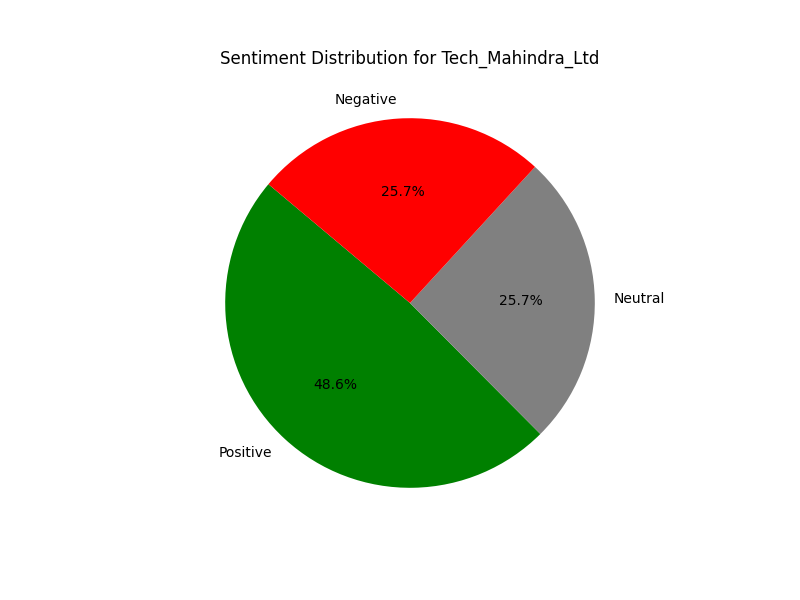
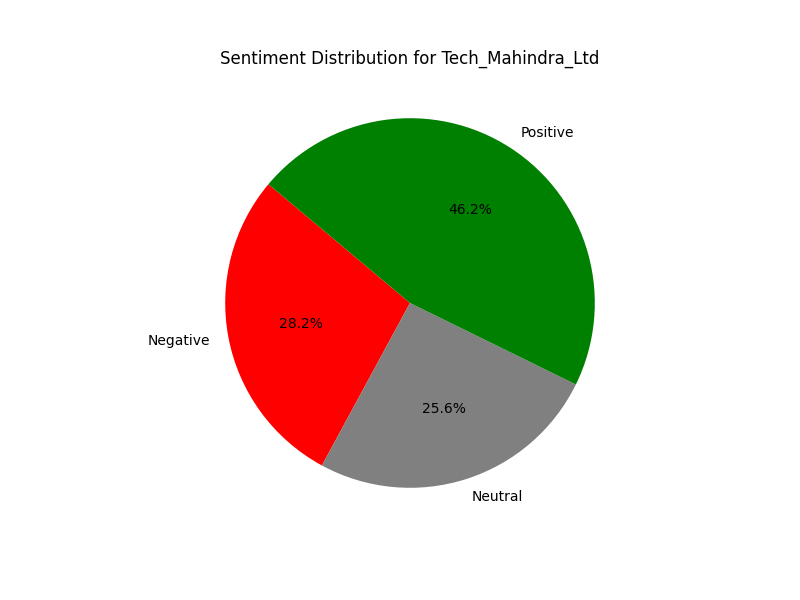
updated for the month of Aug

diff --git a/sentiment.py b/sentiment.py
@@ -194,16 +194,28 @@ def plot_sentiment_distribution(df, stock_ticker):
     plt.ylabel('Count')
     plt.savefig(rf'./images/{stock_ticker}_sentiment_distribution.png')
 
+# def plot_sentiment_pie_chart(df, stock_ticker):
+#     sentiment_counts = df['Label'].value_counts()
+#     sentiment_labels = ['Positive' if x == 1 else 'Neutral' if x == 0 else 'Negative' for x in sentiment_counts.index]
+#     colors = ['green', 'grey', 'red']
+    
+#     plt.figure(figsize=(8, 6))
+#     plt.pie(sentiment_counts, labels=sentiment_labels, autopct='%1.1f%%', colors=colors, startangle=140)
+#     plt.title(f'Sentiment Distribution for {stock_ticker}')
+    
+#     output_dir = f'./static/images/'
+#     plt.savefig(os.path.join(output_dir, f'{stock_ticker}_sentiment_graph.png'))
+
 def plot_sentiment_pie_chart(df, stock_ticker):
-    sentiment_counts = df['Label'].value_counts()
-    sentiment_labels = ['Positive' if x == 1 else 'Neutral' if x == 0 else 'Negative' for x in sentiment_counts.index]
-    colors = ['green', 'grey', 'red']
+    sentiment_counts = df['Label'].value_counts().sort_index()
+    sentiment_labels = ['Negative', 'Neutral', 'Positive']
+    colors = ['red', 'gray', 'green']
     
     plt.figure(figsize=(8, 6))
     plt.pie(sentiment_counts, labels=sentiment_labels, autopct='%1.1f%%', colors=colors, startangle=140)
     plt.title(f'Sentiment Distribution for {stock_ticker}')
     
-    output_dir = f'./static/images/'
+    output_dir = './static/images/'
     plt.savefig(os.path.join(output_dir, f'{stock_ticker}_sentiment_graph.png'))
 
 def main(stock_idx=0):
@@ -247,5 +259,8 @@ if __name__ == "__main__":
     stock_list = ["TCS", "Tata_Motors", "Infosys", "Asian_Paints", "Tech_Mahindra_Ltd"]
     for idx in range(len(stock_list)):
         main(idx)
+
+    # plot_sentiment_pie_chart(pd.read_csv(rf'./Dataset/TCS_sentiment_data.csv'), 'TCS')
+
     # main(0)
     # main(1)

diff --git a/app.py b/app.py
@@ -34,9 +34,27 @@ def get_fundamental_analysis(stock_info):
         'dividend_yield': stock_info.get('dividendYield', 'N/A')
     }
 
+
 @app.route('/', methods=['GET', 'POST'])
 def home():
     return render_template('index.html')
+
+def get_recommendation(predicted_price, current_price, threshold_percentage=0.05):
+    threshold = current_price * threshold_percentage
+    price_difference = predicted_price - current_price
+
+    if price_difference > threshold:
+        recommendation = 'Buy'
+    elif 0 < price_difference <= threshold:
+        recommendation = 'Hold' # weak buy
+    elif price_difference == 0:
+        recommendation = 'Hold' # neutral
+    elif -threshold <= price_difference < 0:
+        recommendation = 'Hold' # weak sell
+    else:  # price_difference < -threshold
+        recommendation = 'Sell'
+
+    return recommendation
 
 @app.route('/stock_analysis', methods=['GET', 'POST'])
 def stock_analysis():
@@ -58,12 +76,7 @@ def stock_analysis():
     if stock_details['current_price'] != 'N/A' and predicted_price is not None:
         current_price = stock_details['current_price']
         predicted_price = float(predicted_price)
-        if predicted_price > current_price:
-            recommendation = 'Buy'
-        elif predicted_price < current_price:
-            recommendation = 'Sell'
-        else:
-            recommendation = 'Hold'
+        recommendation = get_recommendation(predicted_price, current_price)
             
     fundamental_insights = get_fundamental_insights(
         stock_details['fundamental_analysis']['market_cap'],
